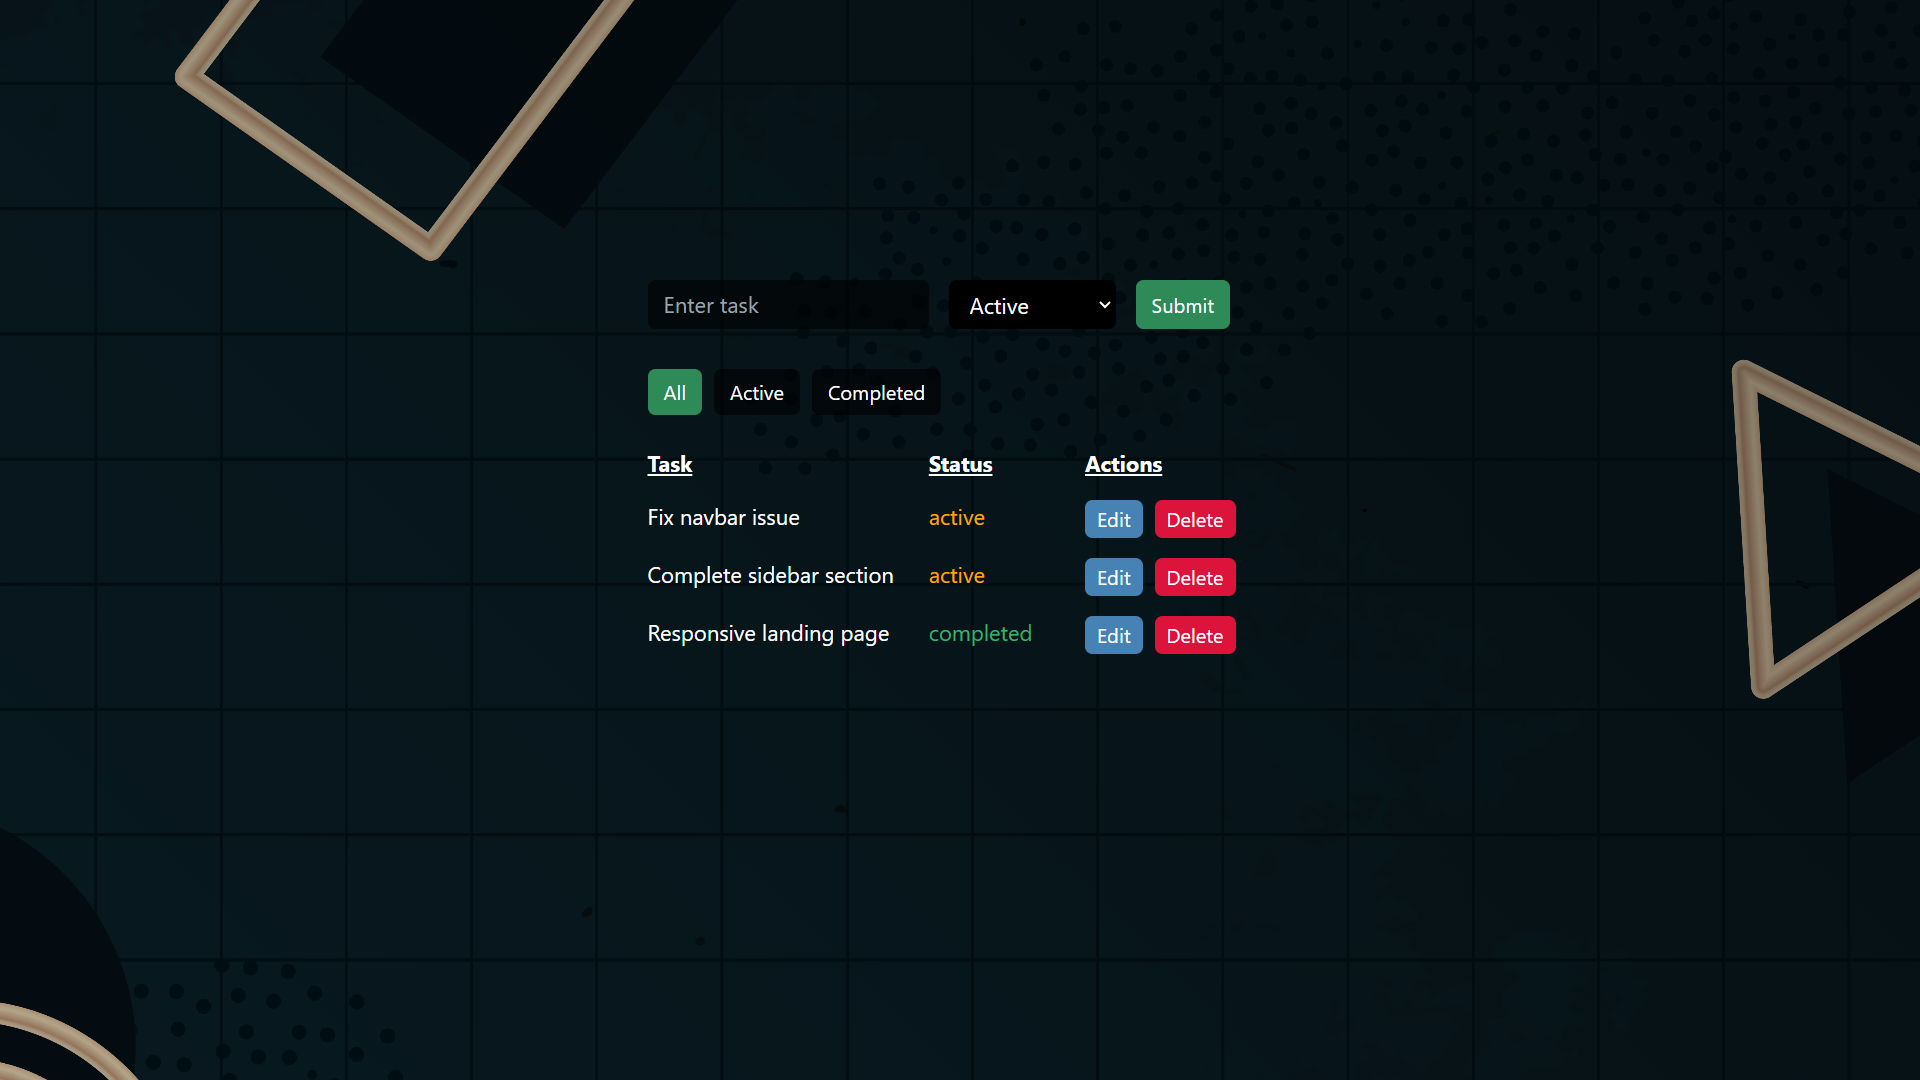
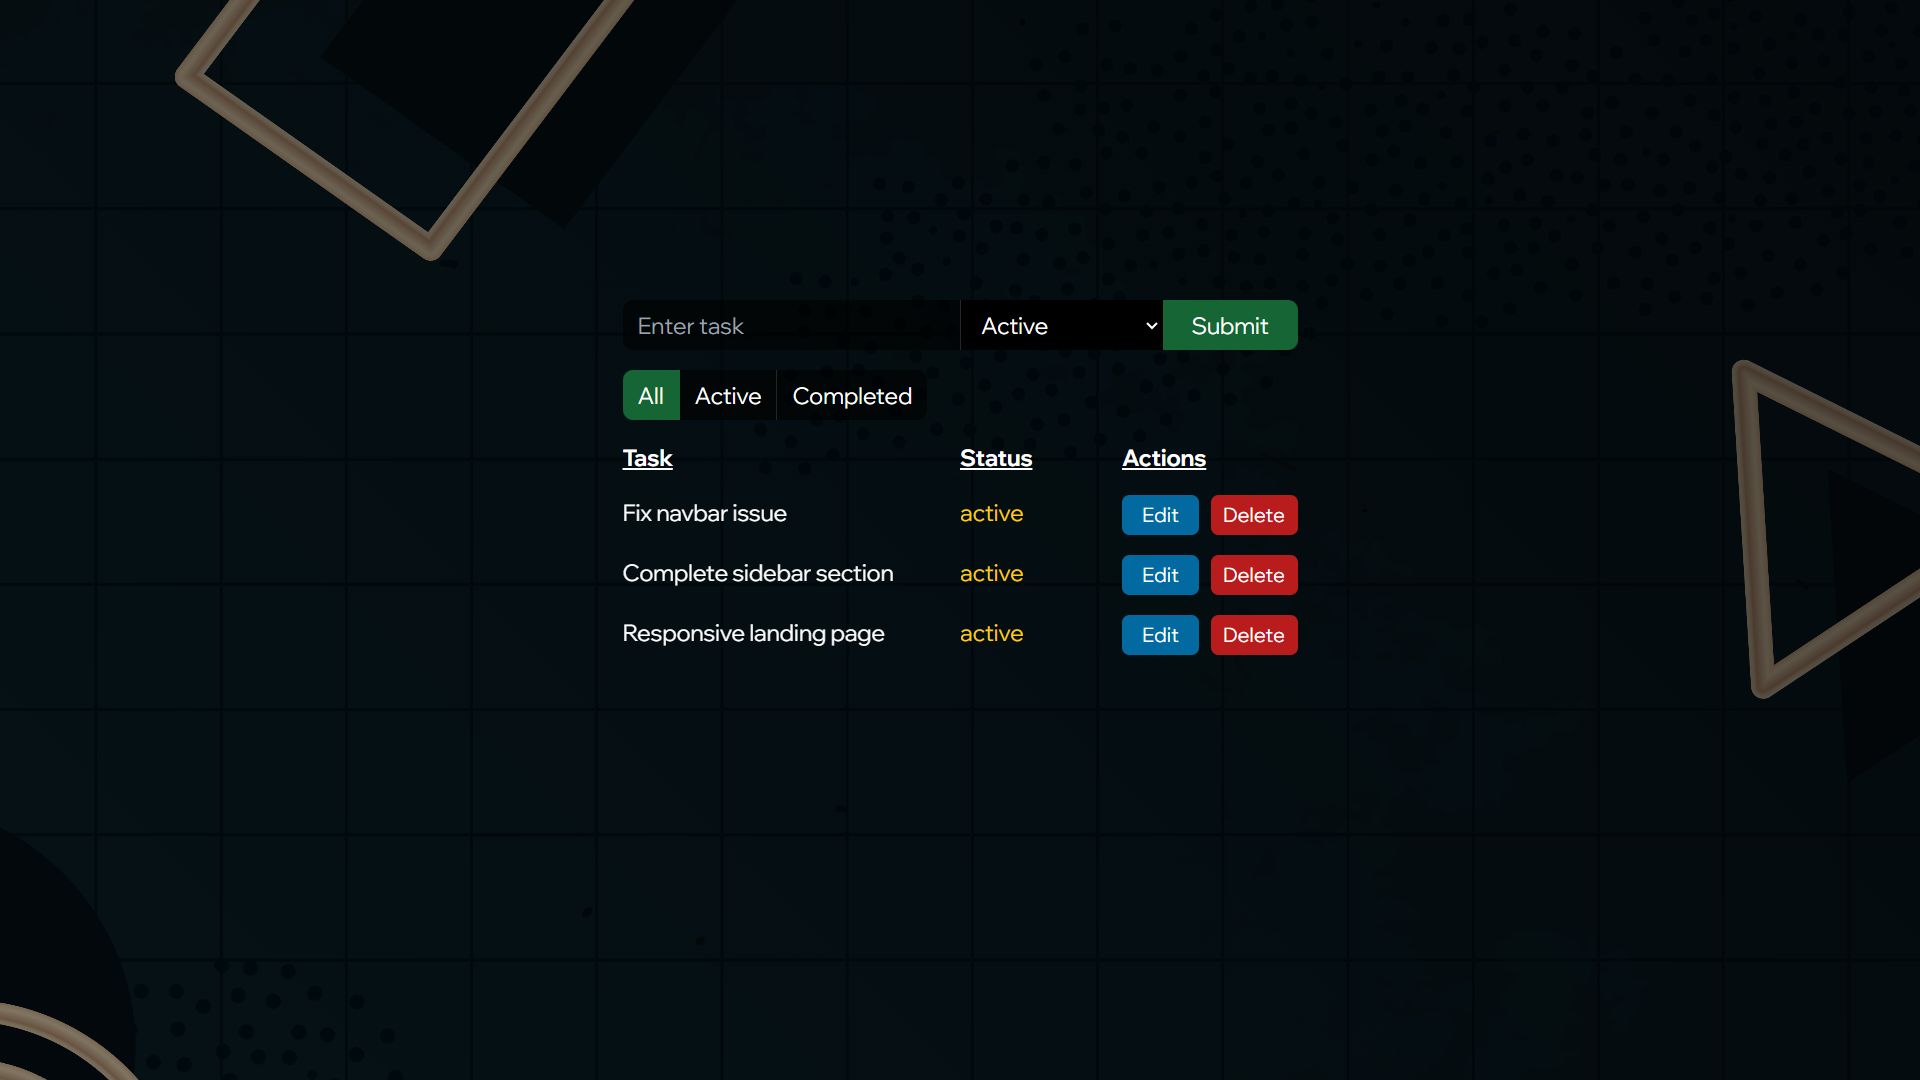
todo project updated

diff --git a/src/pages/projects/Todo.jsx b/src/pages/projects/Todo.jsx
@@ -51,11 +51,11 @@ const Todo = () => {
   };
 
   return (
-    <div className="px-2 py-32 text-white font-wix w-full h-auto min-h-screen bg-todo bg-cover bg-fixed">
-      <div className="mx-auto w-full max-w-[500px]">
+    <div className="px-2 py-8 lg:py-32 text-white font-wix w-full h-auto min-h-screen bg-todo bg-cover bg-fixed overflow-x-hidden overflow-y-auto">
+      <div className="mx-auto w-full max-w-[540px]">
         <form
           onSubmit={handleSubmit}
-          className="h-10 w-full flex items-center justify-between"
+          className="h-auto w-full flex flex-wrap items-center justify-start sm:justify-between"
         >
           <input
             value={task.task}
@@ -63,20 +63,20 @@ const Todo = () => {
             name="task"
             type="text"
             placeholder="Enter task"
-            className="px-3 text-lg h-full w-1/2 border-none outline-none bg-black bg-opacity-60 rounded-s-lg"
+            className="mb-4 sm:mb-0 px-3 text-lg h-10 w-full sm:w-1/2 border-none outline-none bg-black bg-opacity-60 rounded-s-lg"
           />
           <select
             value={task.status}
             onChange={handleChange}
             name="status"
-            className="px-3 text-lg h-full w-[30%] border-l border-neutral-800 outline-none bg-black"
+            className="px-3 text-lg h-10 w-32 sm:w-[30%] border-l border-neutral-800 outline-none bg-black"
           >
             <option value="active">Active</option>
             <option value="completed">Completed</option>
           </select>
           <button
             type="submit"
-            className="px-4 text-lg h-full w-[20%] bg-green-800 border-none outline-none rounded-e-lg"
+            className="px-4 text-lg h-10 w-28 sm:w-[20%] bg-green-800 border-none outline-none rounded-e-lg"
           >
             {edit.status ? "Update" : "Submit"}
           </button>
@@ -119,9 +119,13 @@ const Todo = () => {
 
         <div className="mt-4">
           <div className="w-full flex items-center">
-            <strong className="w-1/2 text-lg underline">Task</strong>
-            <strong className="w-[24%] text-lg underline">Status</strong>
-            <strong className="w-[26%] text-lg underline">Actions</strong>
+            <strong className="w-3/5 sm:w-1/2 text-lg underline">Task</strong>
+            <strong className="w-2/5 sm:w-[24%] text-lg underline">
+              Status
+            </strong>
+            <strong className="hidden sm:block sm:w-[26%] text-lg underline">
+              Actions
+            </strong>
           </div>
 
           {!filteredTodo.length && (
@@ -131,10 +135,15 @@ const Todo = () => {
           {filteredTodo.length !== 0 &&
             filteredTodo.map((elem, index) => {
               return (
-                <div key={index} className="pt-4 w-full flex items-start">
-                  <span className="w-1/2 text-lg">{elem.task}</span>
+                <div
+                  key={index}
+                  className="pt-4 w-full flex flex-wrap items-start"
+                >
+                  <span className="w-3/5 sm:w-1/2 text-white text-lg drop-shadow-2xl">
+                    {elem.task}
+                  </span>
                   <span
-                    className={`w-[24%] text-lg ${
+                    className={`w-2/5 sm:w-[24%] text-lg ${
                       elem.status === "active"
                         ? "text-yellow-400"
                         : "text-green-500"
@@ -142,16 +151,16 @@ const Todo = () => {
                   >
                     {elem.status}
                   </span>
-                  <span className="w-[26%] flex items-center justify-end gap-2.5">
+                  <span className="mt-2 sm:mt-0 w-full sm:w-[26%] flex items-center justify-start sm:justify-between gap-2.5 sm:gap-2">
                     <button
                       onClick={() => handleEdit(elem, index)}
-                      className="px-2.5 py-1 text-base border-none outline-none rounded-md bg-sky-700"
+                      className="px-4 py-1 text-base text-white border-none outline-none rounded-md bg-sky-700"
                     >
                       Edit
                     </button>
                     <button
                       onClick={() => handleRemove(index)}
-                      className="px-2.5 py-1 text-base border-none outline-none rounded-md bg-red-700"
+                      className="px-2.5 py-1 text-base text-white border-none outline-none rounded-md bg-red-700"
                     >
                       Delete
                     </button>

diff --git a/tailwind.config.js b/tailwind.config.js
@@ -1,4 +1,7 @@
 /** @type {import('tailwindcss').Config} */
+
+const defaultTheme = require('tailwindcss/defaultTheme');
+
 export default {
   content: [
     "./index.html",
@@ -6,6 +9,10 @@ export default {
   ],
   theme: {
     extend: {},
+    screens: {
+      'xs': '475px',
+      ...defaultTheme.screens,
+    },
     fontFamily: {
       mono: ['IBM Plex Mono', 'monospace'],
       rethink: ['Rethink Sans', 'sans-serif'],
